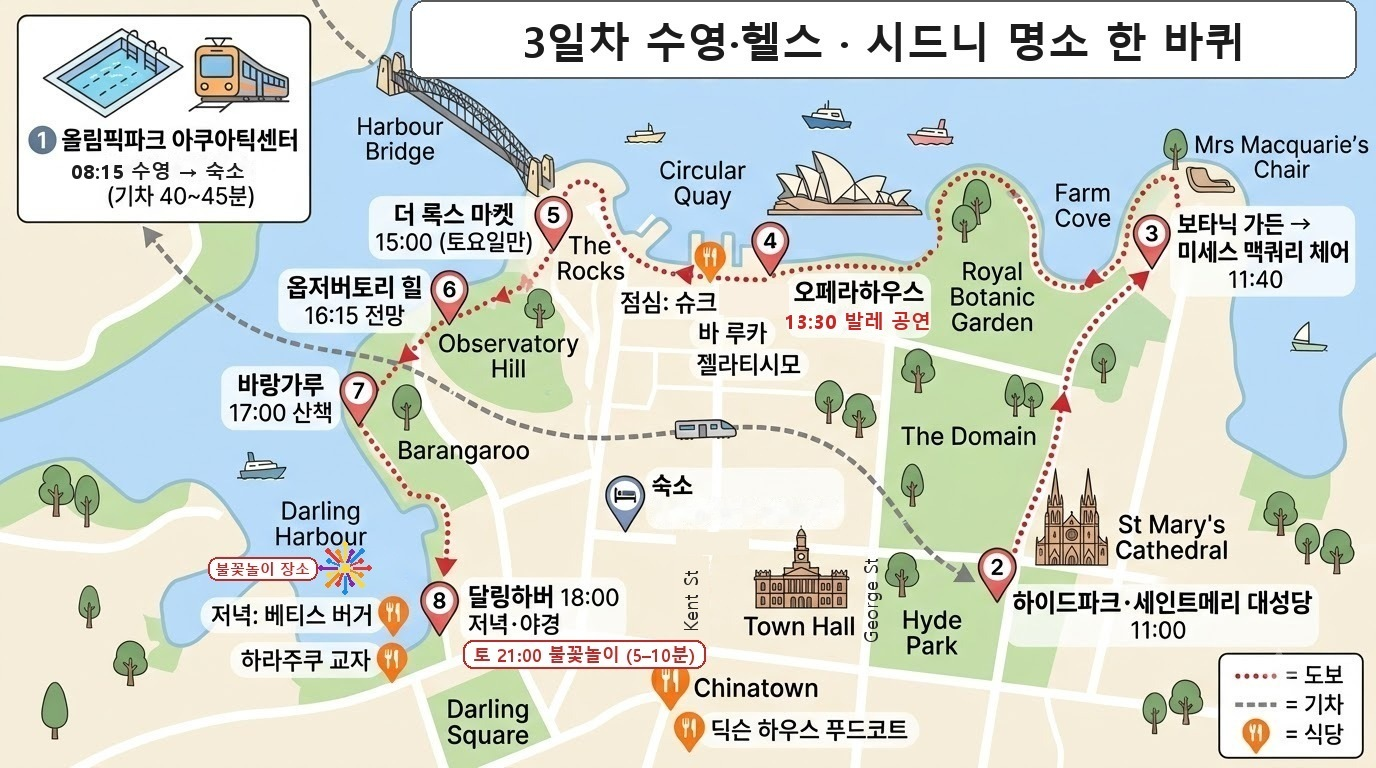
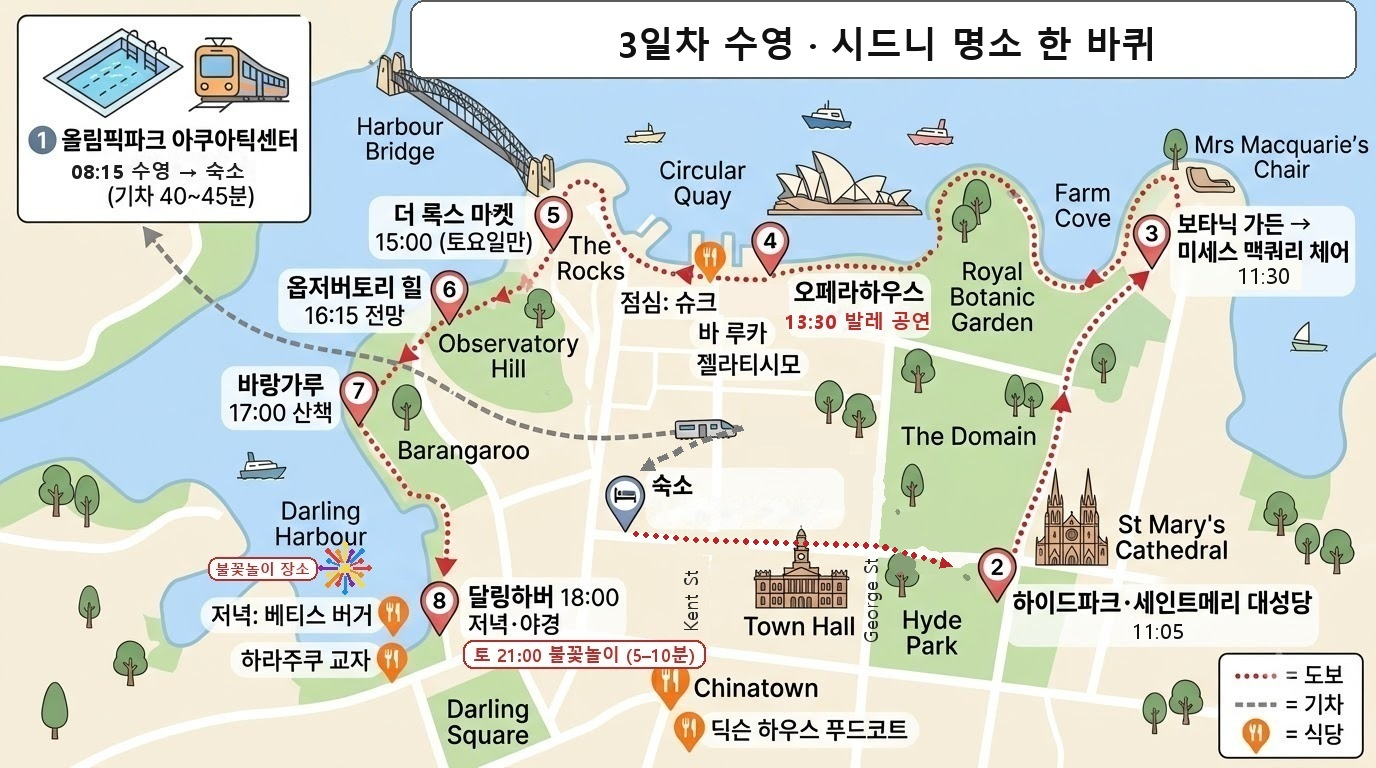
Day 3 map: train ends at the hotel, walk to Hyde Park, times 11:05/11:30, no gym in title

diff --git a/src/data.js b/src/data.js
@@ -62,7 +62,7 @@ export const TEMPLATES = {
     title: '올림픽파크 수영, 오페라하우스 발레 공연, 더 록스 마켓, 달링하버 불꽃놀이',
     summary:
       '오전에 올림픽파크에서 수영만 하고(헬스는 빼고) 숙소에 들러 공연용 옷으로 갈아입은 뒤, 13:30에는 오페라하우스에서 호주 발레단 「코플랜드 댄스 에피소드」(73분)를 봅니다. 공연 30분 전인 13:00까지 도착하도록 점심을 서큘러키에서 먼저 먹습니다. 토요일 21:00에는 달링하버 불꽃놀이(5~10분)를 보고 들어갑니다. 더 록스 마켓은 토·일에만 열립니다.',
-    map: '/maps/day3.jpg',
+    map: '/maps/day3.jpg?v=8',
     mapAlt: '시내 명소일 동선: 올림픽파크 수영 → 숙소(옷 갈아입기) → 하이드파크·세인트메리 → 보타닉 가든 → 13:30 오페라하우스 발레 → 더 록스 마켓 → 옵저버토리 힐 → 바랑가루 → 달링하버 저녁·불꽃놀이',
     items: [
       ['07:00–07:30', '기상·간단한 아침', '—', '수영복·수건만 챙기기(공연 옷은 숙소에)'],
